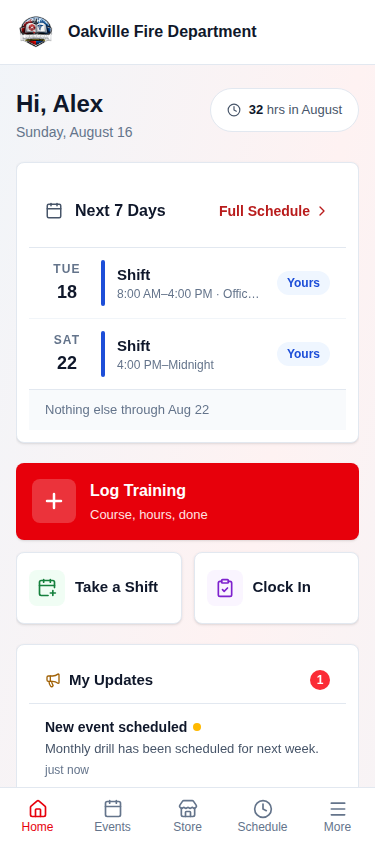
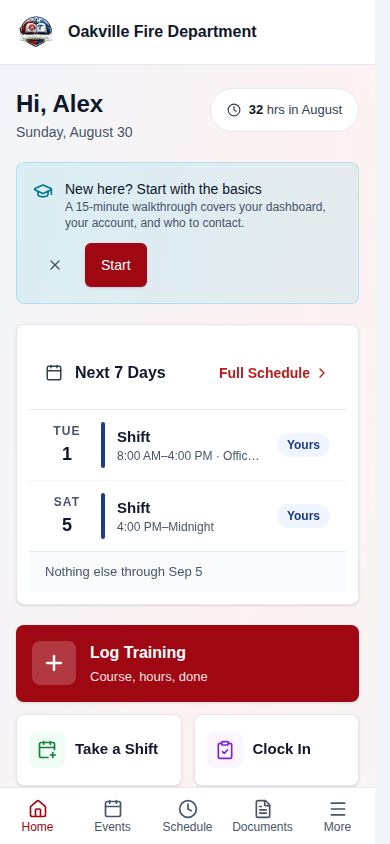
Select the training action bar by what it is, not where it sits
CI caught a regression from the previous commit. `submit-training.spec.ts`
finds the bar with `form .fixed.inset-x-0.bottom-0`, and giving the bar
the content inset replaced `inset-x-0` with
`left-[var(--side-nav-width,0px)]`. The selector then matched nothing, so
the test failed on `expect(clearance).not.toBeNull()` — reporting no bar
rather than a bar in the wrong place.

It now selects on `action-bar-safe`, the utility that makes it an action
bar. That is the property the test is actually about; the horizontal
inset is the thing under test's neighbours, and naming geometry in a
selector turns any change to that geometry into a missing element.

Reproduced the CI failure locally first, on the same selector and the
same viewport, then confirmed the fix passes. Whole chromium E2E suite
run locally: 102 passed. The suite's second failure that run,
`mobile-create-edit`'s inventory dialog, passed on retry and passes
locally; it is unrelated to this diff.

Claude-Session: https://claude.ai/code/session_01BNDGVmtDA4F8CQZkdDEM2M

diff --git a/frontend/src/e2e/submit-training.spec.ts b/frontend/src/e2e/submit-training.spec.ts
@@ -203,7 +203,12 @@ test.describe('Submit External Training', () => {
     await gotoSubmit(page);
 
     const clearance = await page.evaluate(() => {
-      const bar = document.querySelector('form .fixed.inset-x-0.bottom-0');
+      // Selected by the utility that makes it an action bar, not by its
+      // horizontal inset: the bar starts at the content column now, so the
+      // inset is `left-[var(--side-nav-width,0px)]` rather than `inset-x-0`,
+      // and a selector naming the geometry silently matches nothing when the
+      // geometry changes — the failure reads as "no bar", not "moved bar".
+      const bar = document.querySelector('form .action-bar-safe.fixed');
       const nav = document.querySelector('nav.fixed.bottom-0');
       if (!bar || !nav) return null;
       const barStyle = getComputedStyle(bar);
